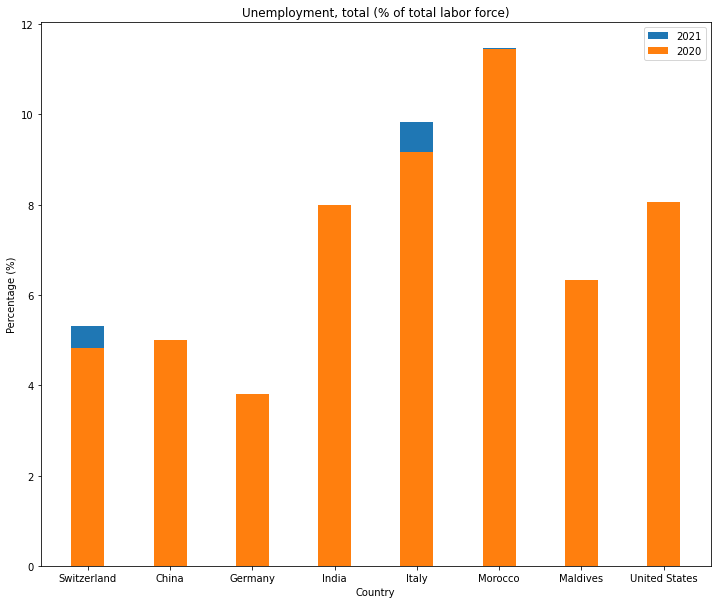
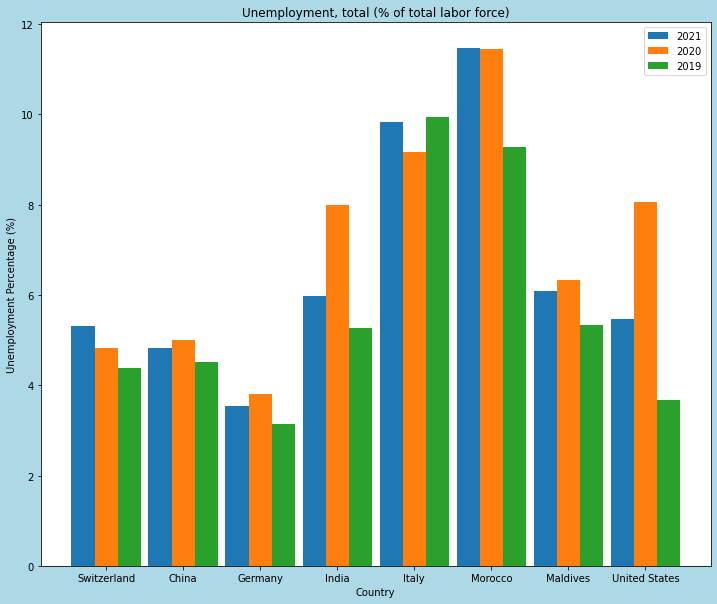
Resolved Multi bar plot issues

diff --git a/Assignment_1/Source_code/Bar_Chart.py b/Assignment_1/Source_code/Bar_Chart.py
@@ -9,23 +9,42 @@ def ReadData():
 ''' Function definition'''
 def BarPlot(): 
     
-   '''Get data'''
+   '''Get excel file data '''
    Unemployment_data = ReadData()
    
-   ''' X axis Data '''
-   cols =["2021","2020","2019"]
-   plt.figure(5,figsize=(12,10),facecolor='white')
-   plt.subplot(1, 1, 1)
+   ''' X axis Data '''   
+   x_axis = Unemployment_data['Country Name'];
    
-   width1 = 0.4
-   plt.bar(Unemployment_data['Country Name'],Unemployment_data['2021'],width=width1)
-   plt.bar(Unemployment_data['Country Name'],Unemployment_data['2020'],width=width1)
-  
-   plt.ylabel("Percentage (%)")
-   plt.xlabel('Country')
-   plt.title("Unemployment, total (% of total labor force)")
-   plt.legend(["2021","2020"])
-   plt.show()
+   '''multiple bar's data'''
+   bar1 = Unemployment_data['2021'];
+   bar2 = Unemployment_data['2020'];
+   bar3 = Unemployment_data['2019'];
+   
+   '''Legend name for each bar respectively'''
+   lengendValues =[2021,2020,2019];
+   
+   '''Generate Multiple Bar'''
+   def CreateBar(X, barValues,width=0.9):
+       n = len(barValues);
+       _xAxis = np.arange(len(X));
+       for i in range(n):
+           plt.bar(_xAxis - width/3 + i/float(n)*width, barValues[i],
+                   width=width/float(n), align="center") 
+        
+       '''Setting X-axis ticks'''   
+       plt.xticks(_xAxis, X)
+       
+   '''Create a Figure of width = 12 and height = 10'''
+   plt.figure(5,figsize=(12,10),facecolor='lightblue')
+   
+   '''Calling CreateBar function to generate multi bar plot'''   
+   CreateBar(x_axis, [bar1,bar2,bar3]);
+   
+   plt.ylabel("Unemployment Percentage (%)");
+   plt.xlabel('Country');
+   plt.title("Unemployment, total (% of total labor force)");
+   plt.legend(lengendValues);
+   plt.show();
    return
 
 '''Function calling'''
